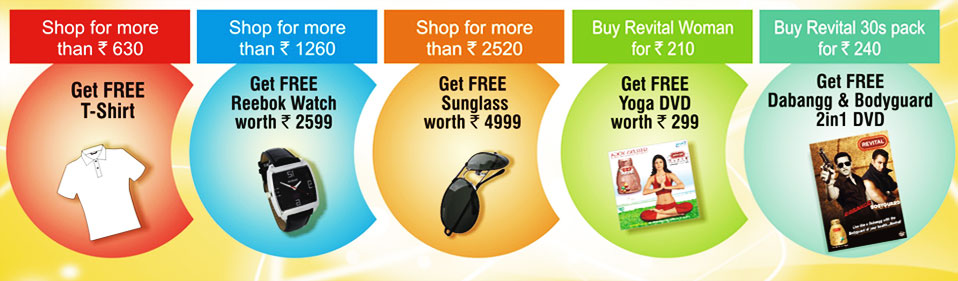
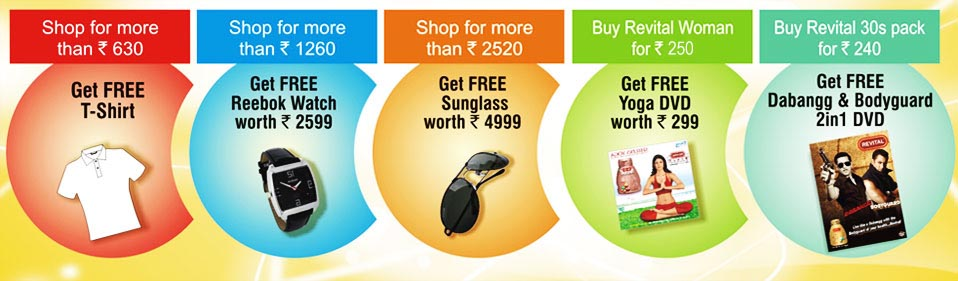
Revital promo fixes

diff --git a/HKCore/src/com/hk/impl/service/order/CartFreeBieServiceImpl.java b/HKCore/src/com/hk/impl/service/order/CartFreeBieServiceImpl.java
@@ -19,8 +19,8 @@ public class CartFreeBieServiceImpl implements CartFreebieService {
 
     private String         revitalTshirt   =  "/pages/lp/revital/images/banner_tshirt.jpg";  // 630
     private String         revitalWatch    =  "/pages/lp/revital/images/banner_watch.jpg";   // 1260
-    private String         revitalSunglass =  "/pages/lp/revital/images/banner-sunglass.jpg"; // 2520
-    private String         revitalYogaDVD  =  "/pages/lp/revital/images/banner-yoga_dvd.jpg";
+    private String         revitalSunglass =  "/pages/lp/revital/images/banner_sunglass.jpg"; // 2520
+    private String         revitalYogaDVD  =  "/pages/lp/revital/images/banner_yoga_dvd.jpg";
     private String         revitalMovieDVD =  "/pages/lp/revital/images/banner_free_dvd.jpg";
 
     @Autowired
@@ -50,7 +50,7 @@ public class CartFreeBieServiceImpl implements CartFreebieService {
             imageURL = context + revitalWatch;
         } else if (cartValue > 630) {
             imageURL = context + revitalTshirt;
-        } else if (rvWValue >= 210) {
+        } else if (rvWValue >= 250) {
             imageURL = context + revitalYogaDVD;
         } else if (rv30CpsValue >= 240) {
             imageURL = context + revitalMovieDVD;
